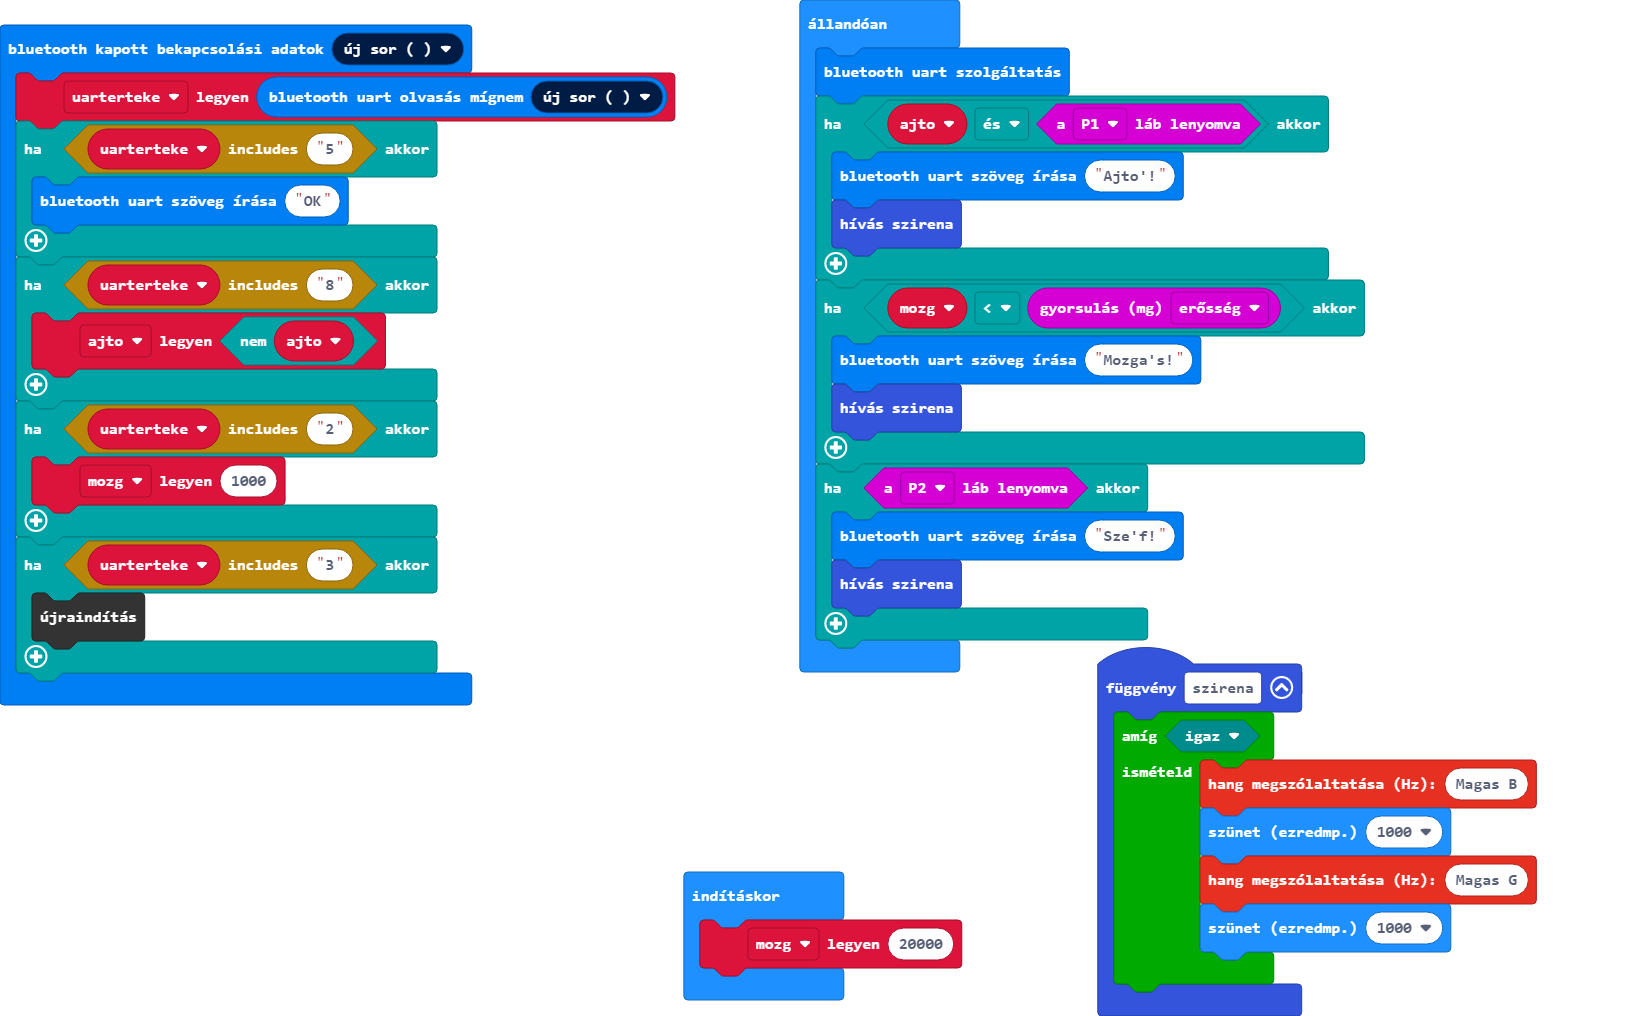
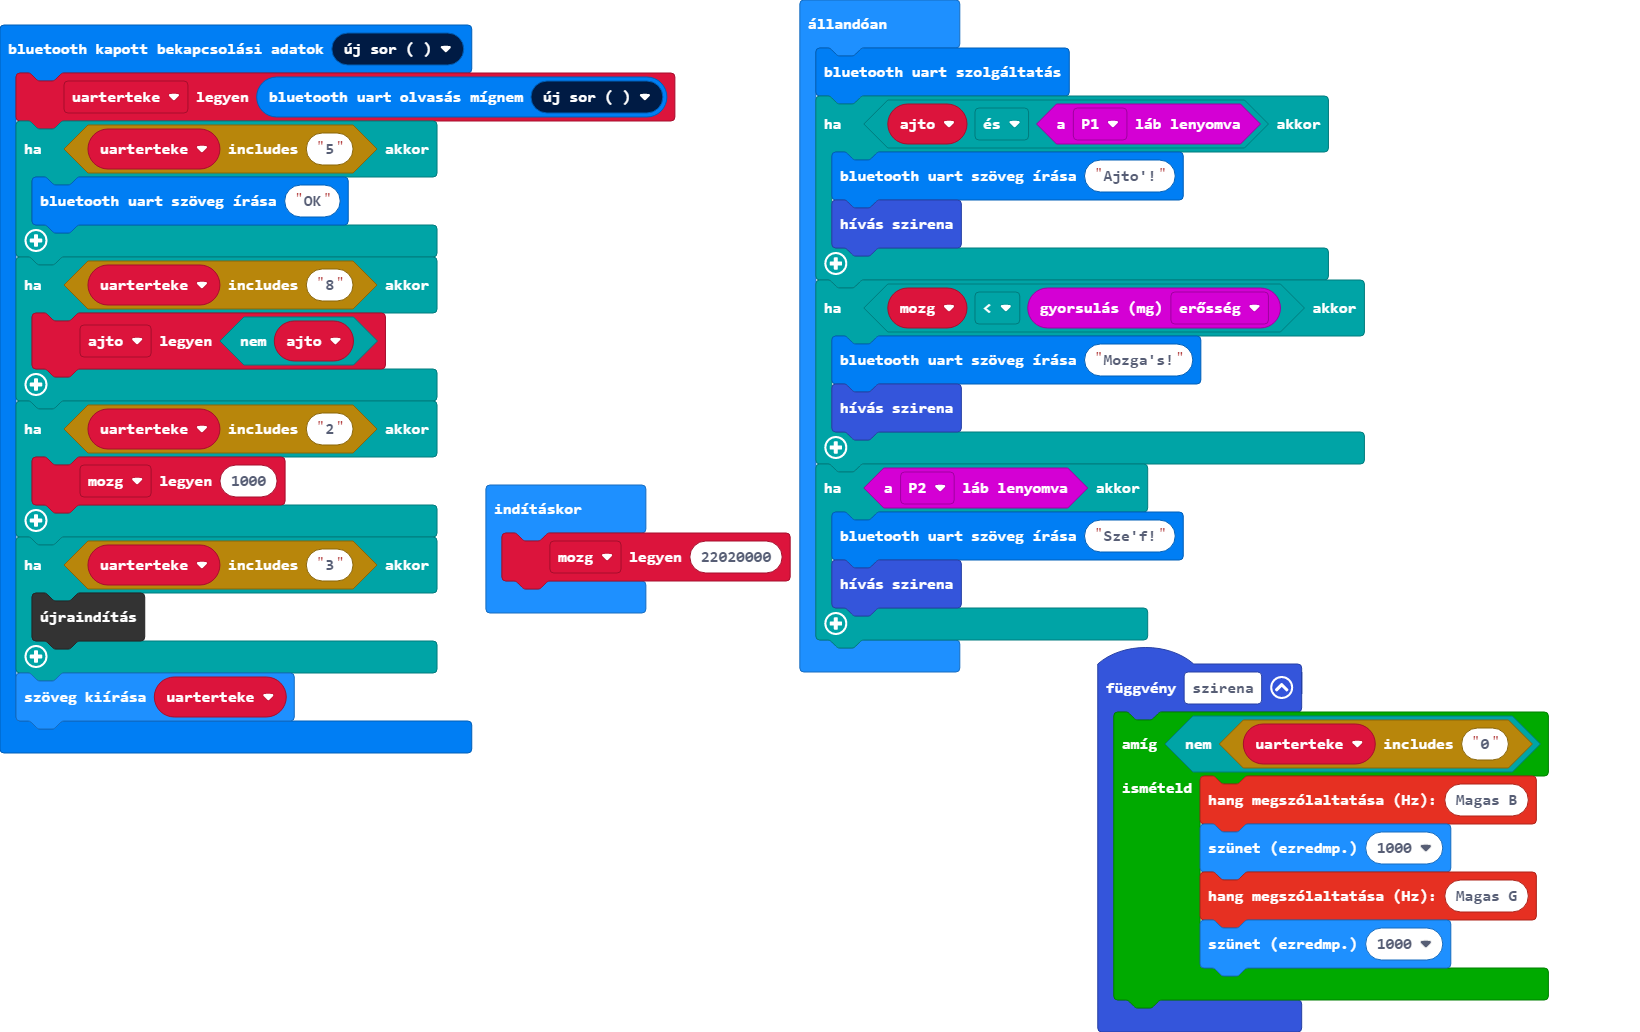
Update main.blocks, main.ts

Changed region(s): [[0.0, 0.0305, 0.964, 0.9764], [0.4043, 0.8543, 0.5909, 1.0]]

diff --git a/main.ts b/main.ts
@@ -12,9 +12,10 @@ bluetooth.onUartDataReceived(serial.delimiters(Delimiters.NewLine), function () 
     if (uarterteke.includes("3")) {
         control.reset()
     }
+    basic.showString(uarterteke)
 })
 function szirena () {
-    while (true) {
+    while (!(uarterteke.includes("0"))) {
         music.ringTone(988)
         basic.pause(1000)
         music.ringTone(784)
@@ -24,7 +25,7 @@ function szirena () {
 let ajto = false
 let uarterteke = ""
 let mozg = 0
-mozg = 20000
+mozg = 22020000
 basic.forever(function () {
     bluetooth.startUartService()
     if (ajto && input.pinIsPressed(TouchPin.P1)) {
